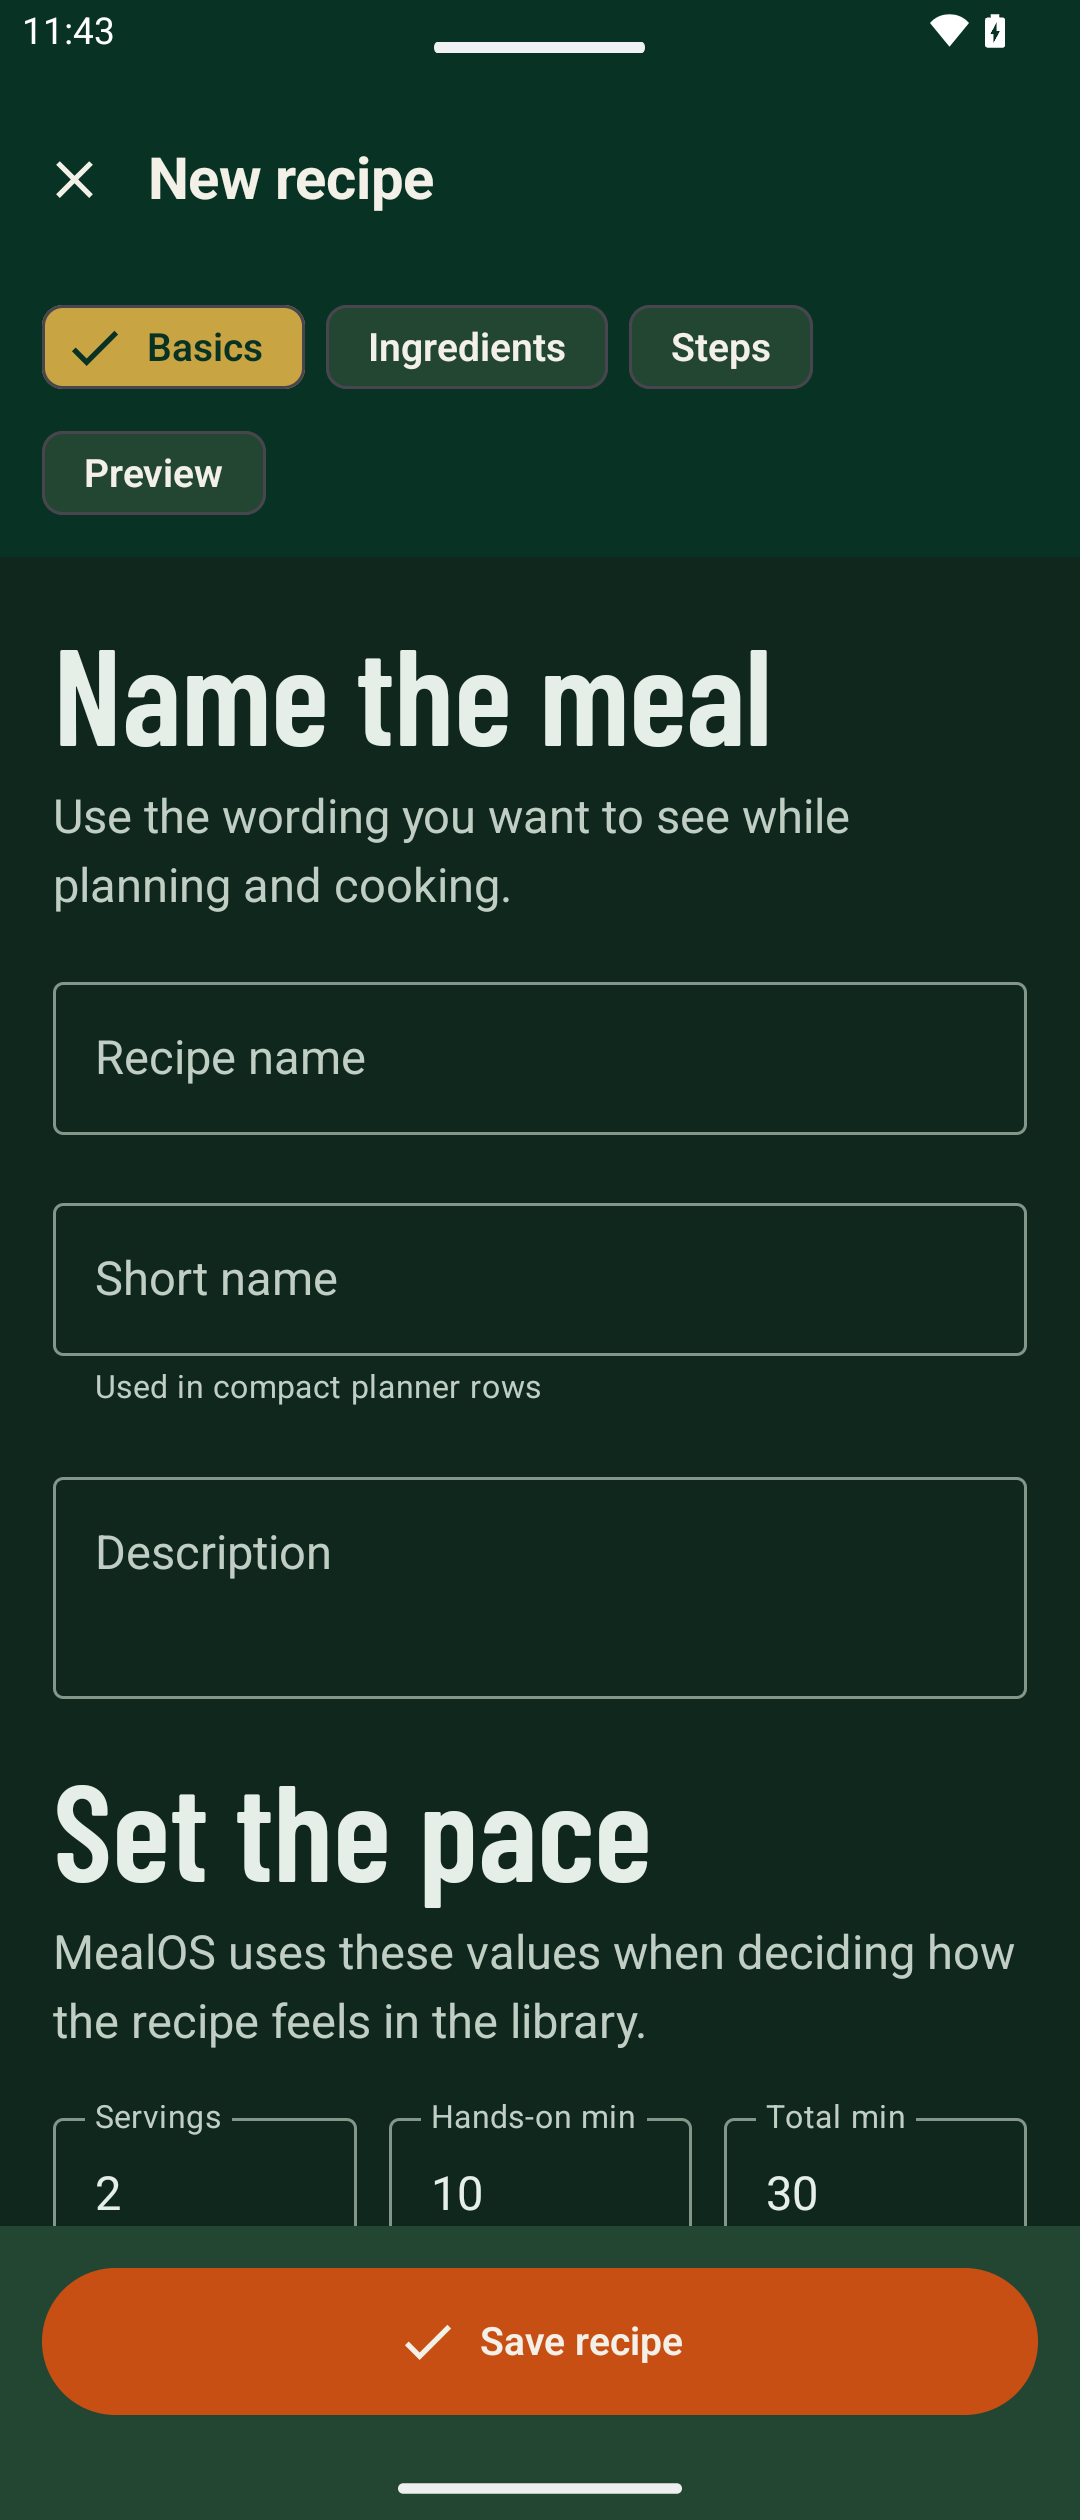
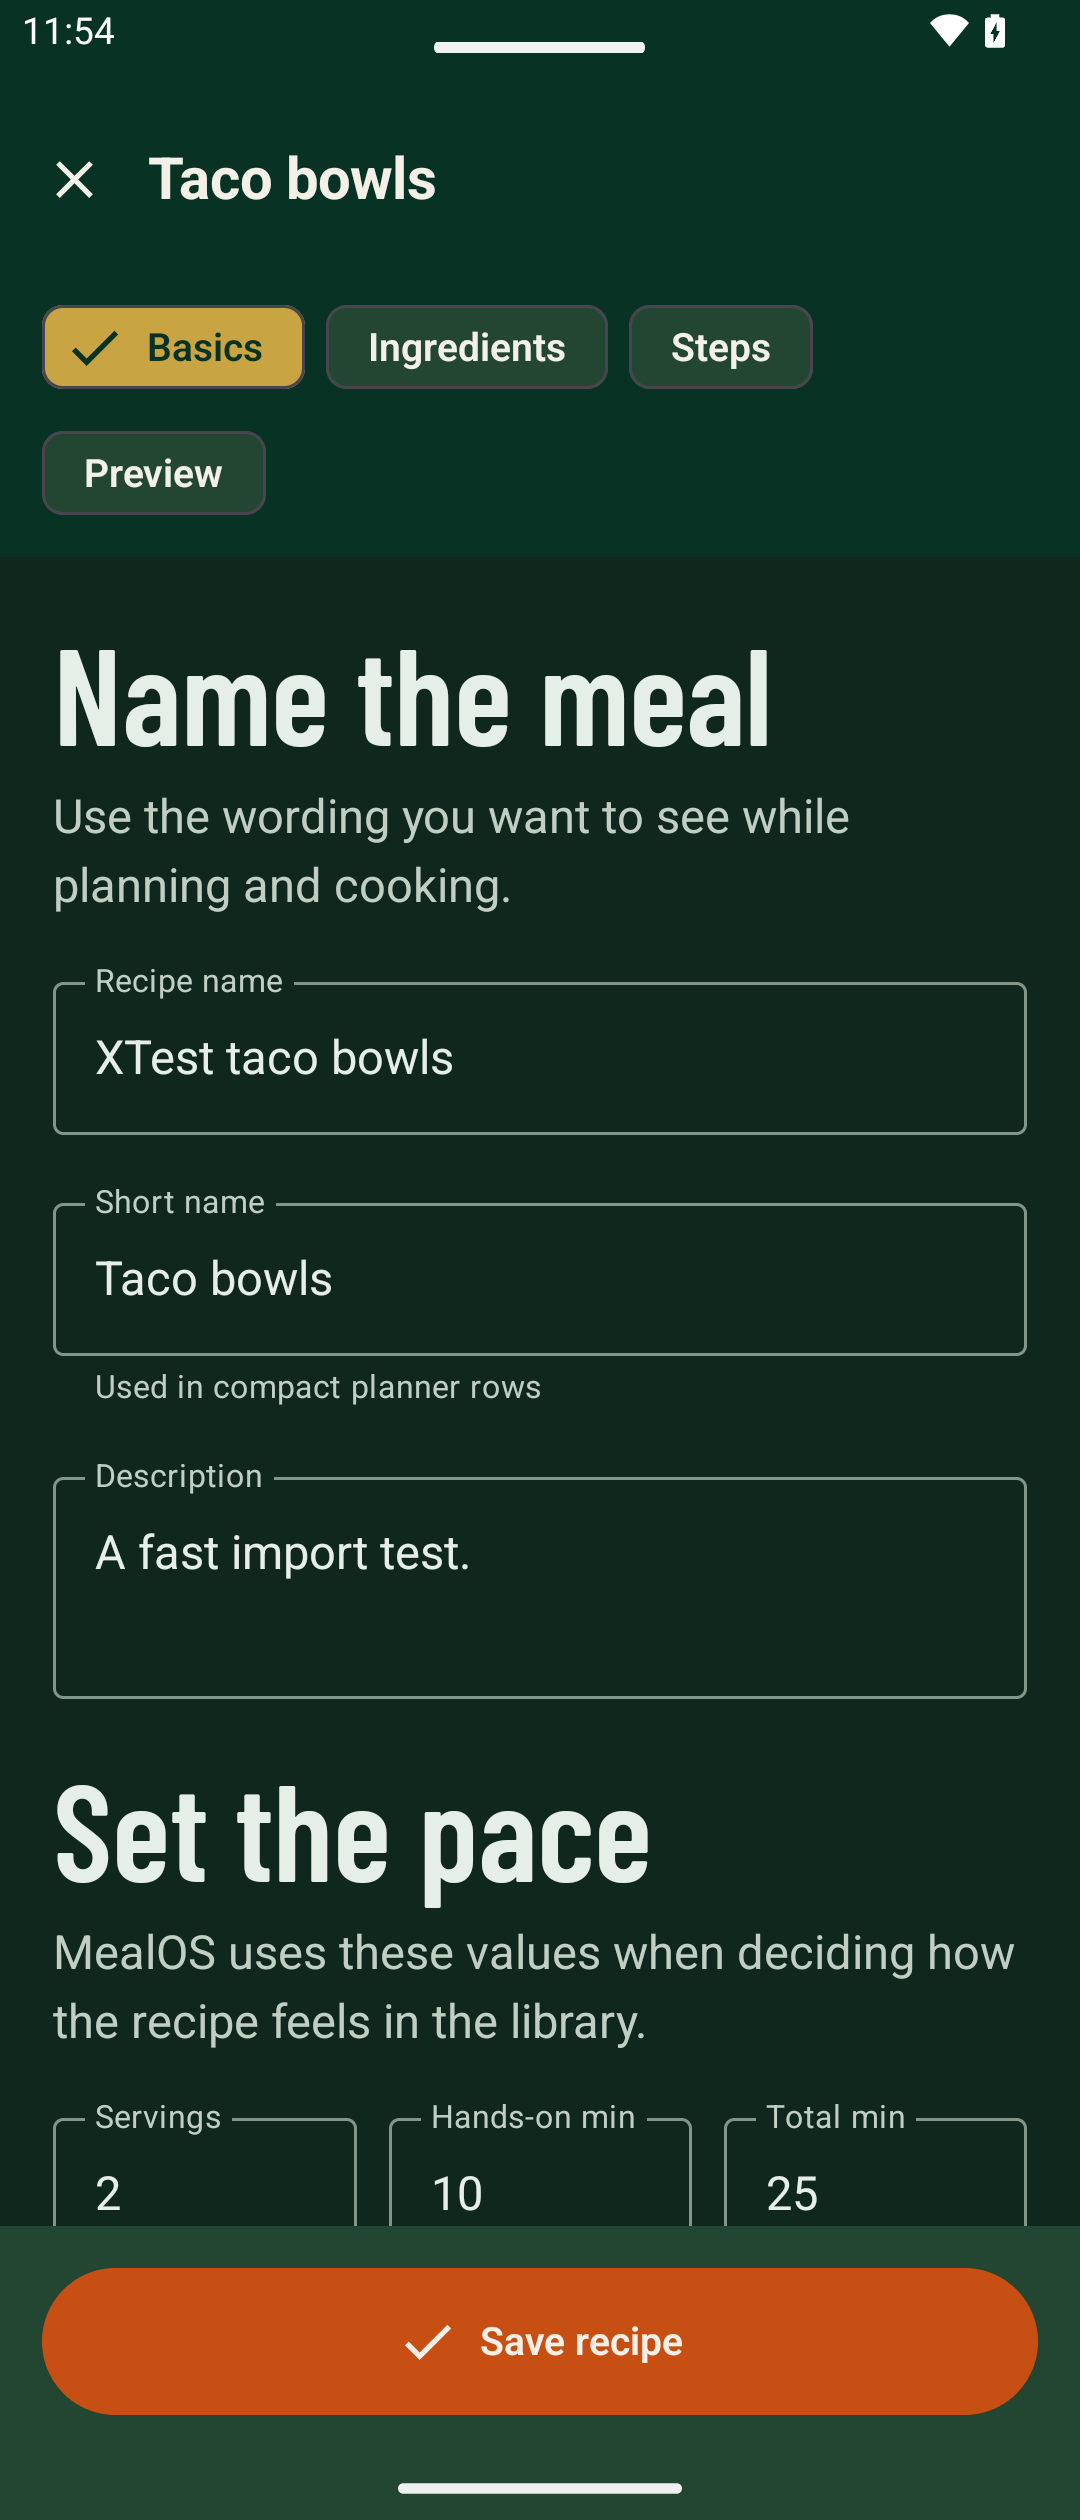
fix: protect imported recipe drafts

diff --git a/app/src/main/java/com/mealos/ui/MealOsApp.kt b/app/src/main/java/com/mealos/ui/MealOsApp.kt
@@ -199,6 +199,7 @@ fun MealOsApp(
     val drawerState = rememberDrawerState(DrawerValue.Closed)
     val scope = rememberCoroutineScope()
     var route: Route by rememberSaveable(stateSaver = RouteSaver) { mutableStateOf(Route.Main(Destination.TODAY)) }
+    var showDiscardRecipeDialog by rememberSaveable { mutableStateOf(false) }
     val view = LocalView.current
     val darkTheme = isSystemInDarkTheme()
 
@@ -207,12 +208,28 @@ fun MealOsApp(
             onDismissRequest = viewModel::clearImportError,
             title = { Text("Recipe could not be imported") },
             text = { Text(message) },
-            confirmButton = { TextButton(onClick = viewModel::clearImportError) { Text("Review file") } }
+            confirmButton = { TextButton(onClick = viewModel::clearImportError) { Text("Dismiss") } }
         )
     }
 
-    LaunchedEffect(editorState?.recipe?.id) {
-        if (editorState != null) route = Route.Editor
+    if (showDiscardRecipeDialog) {
+        AlertDialog(
+            onDismissRequest = { showDiscardRecipeDialog = false },
+            title = { Text("Discard unsaved recipe?") },
+            text = { Text("Your changes have not been saved to the recipe library.") },
+            dismissButton = { TextButton(onClick = { showDiscardRecipeDialog = false }) { Text("Keep editing") } },
+            confirmButton = {
+                TextButton(onClick = {
+                    showDiscardRecipeDialog = false
+                    viewModel.closeEditor()
+                    route = Route.Main(Destination.RECIPES)
+                }) { Text("Discard") }
+            }
+        )
+    }
+
+    LaunchedEffect(editorState?.recipe?.id, editorState?.hasUnsavedChanges) {
+        if (editorState?.hasUnsavedChanges == true) route = Route.Editor
     }
 
     SideEffect {
@@ -227,8 +244,13 @@ fun MealOsApp(
             is Route.Cooking -> Route.Detail(current.recipeId)
             is Route.Detail -> Route.Main(Destination.RECIPES)
             Route.Editor -> {
-                viewModel.closeEditor()
-                Route.Main(Destination.RECIPES)
+                if (editorState?.hasUnsavedChanges == true) {
+                    showDiscardRecipeDialog = true
+                    Route.Editor
+                } else {
+                    viewModel.closeEditor()
+                    Route.Main(Destination.RECIPES)
+                }
             }
             is Route.Main -> Route.Main(Destination.TODAY)
         }
@@ -319,8 +341,12 @@ fun MealOsApp(
                         onRecipeChange = viewModel::updateEditorRecipe,
                         onSave = viewModel::saveEditorRecipe,
                         onClose = {
-                            viewModel.closeEditor()
-                            route = Route.Main(Destination.RECIPES)
+                            if (state.hasUnsavedChanges) {
+                                showDiscardRecipeDialog = true
+                            } else {
+                                viewModel.closeEditor()
+                                route = Route.Main(Destination.RECIPES)
+                            }
                         },
                         onSaved = { recipeId -> route = Route.Detail(recipeId) }
                     )

diff --git a/app/src/main/java/com/mealos/MealOsViewModel.kt b/app/src/main/java/com/mealos/MealOsViewModel.kt
@@ -90,7 +90,8 @@ class MealOsViewModel(application: Application) : AndroidViewModel(application) 
         _editorState.value = if (recipe.origin == RecipeOrigin.CORE) {
             RecipeEditorState(
                 recipe.copy(id = UUID.randomUUID().toString(), origin = RecipeOrigin.MANUAL),
-                message = "This is a personal copy. The core recipe stays unchanged."
+                message = "This is a personal copy. The core recipe stays unchanged.",
+                hasUnsavedChanges = true
             )
         } else RecipeEditorState(recipe)
     }
@@ -101,7 +102,8 @@ class MealOsViewModel(application: Application) : AndroidViewModel(application) 
             _editorState.value = RecipeEditorState(
                 recipe = it,
                 imported = true,
-                message = "Imported as a draft. Review it before saving."
+                message = "Imported as a draft. Review it before saving.",
+                hasUnsavedChanges = true
             )
         }
         if (result.errors.isNotEmpty()) _importError.value = result.errors.joinToString("\n")
@@ -113,7 +115,7 @@ class MealOsViewModel(application: Application) : AndroidViewModel(application) 
     }
 
     fun updateEditorRecipe(transform: (Recipe) -> Recipe) {
-        _editorState.update { state -> state?.copy(recipe = transform(state.recipe), message = null) }
+        _editorState.update { state -> state?.copy(recipe = transform(state.recipe), message = null, hasUnsavedChanges = true) }
     }
 
     fun saveEditorRecipe(): List<String> {
@@ -121,7 +123,7 @@ class MealOsViewModel(application: Application) : AndroidViewModel(application) 
         val errors = RecipeDocument.validate(state.recipe)
         if (errors.isNotEmpty()) return errors
         launch { repository.saveRecipe(state.recipe) }
-        _editorState.value = state.copy(message = "Saved to your recipe library.")
+        _editorState.value = state.copy(message = "Saved to your recipe library.", hasUnsavedChanges = false)
         return emptyList()
     }
 

diff --git a/app/src/main/java/com/mealos/MainActivity.kt b/app/src/main/java/com/mealos/MainActivity.kt
@@ -35,7 +35,7 @@ class MainActivity : ComponentActivity() {
 
     override fun onCreate(savedInstanceState: Bundle?) {
         super.onCreate(savedInstanceState)
-        handleRecipeIntent(intent)
+        if (savedInstanceState == null) handleRecipeIntent(intent)
         enableEdgeToEdge()
         setContent {
             val fold by produceState<FoldingFeature?>(initialValue = null) {
@@ -101,7 +101,13 @@ class MainActivity : ComponentActivity() {
         val content = sharedText ?: (intent.data ?: sharedFile ?: intent.clipData?.getItemAt(0)?.uri)?.let { uri ->
             runCatching { contentResolver.openInputStream(uri)?.bufferedReader()?.use { it.readText() } }.getOrNull()
         }
-        if (!content.isNullOrBlank()) viewModel.importRecipe(content)
+        if (!content.isNullOrBlank()) {
+            viewModel.importRecipe(content)
+            intent.action = Intent.ACTION_MAIN
+            intent.data = null
+            intent.clipData = null
+            intent.replaceExtras(Bundle())
+        }
     }
 
     @Suppress("DEPRECATION")

diff --git a/app/src/main/java/com/mealos/model/Models.kt b/app/src/main/java/com/mealos/model/Models.kt
@@ -59,7 +59,8 @@ data class Recipe(
 data class RecipeEditorState(
     val recipe: Recipe,
     val imported: Boolean = false,
-    val message: String? = null
+    val message: String? = null,
+    val hasUnsavedChanges: Boolean = false
 )
 
 data class PlanEntry(
